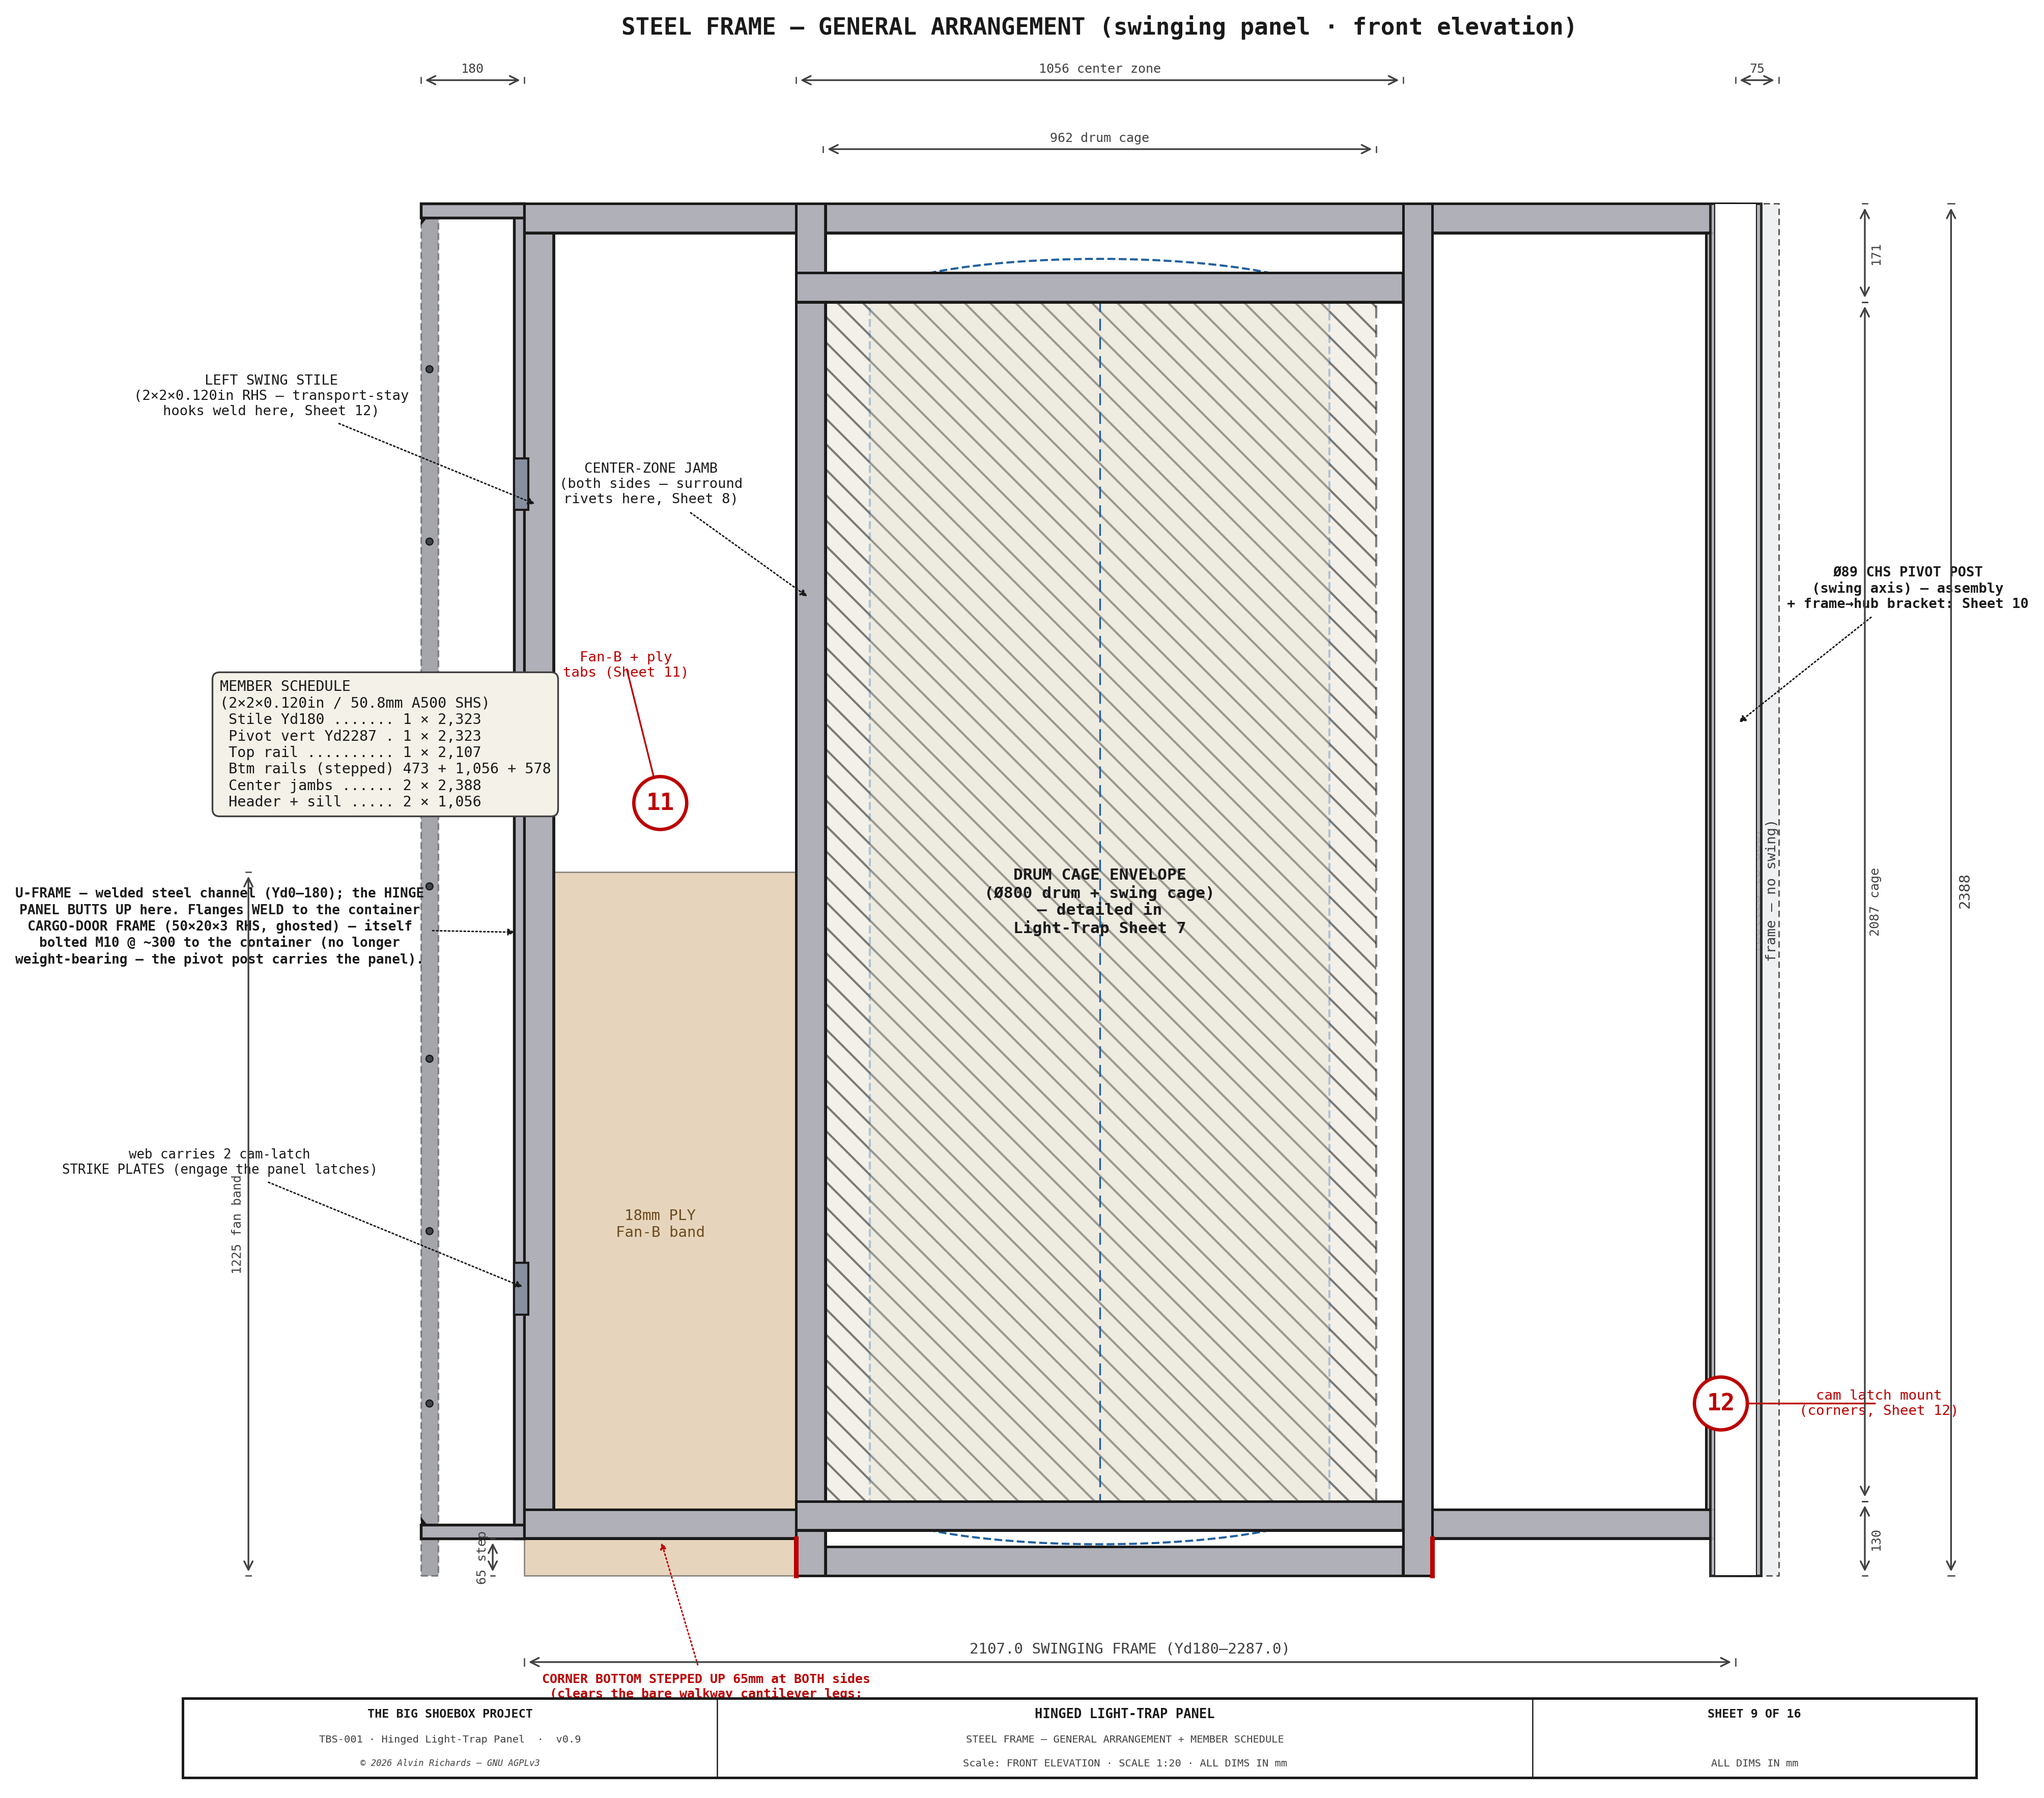
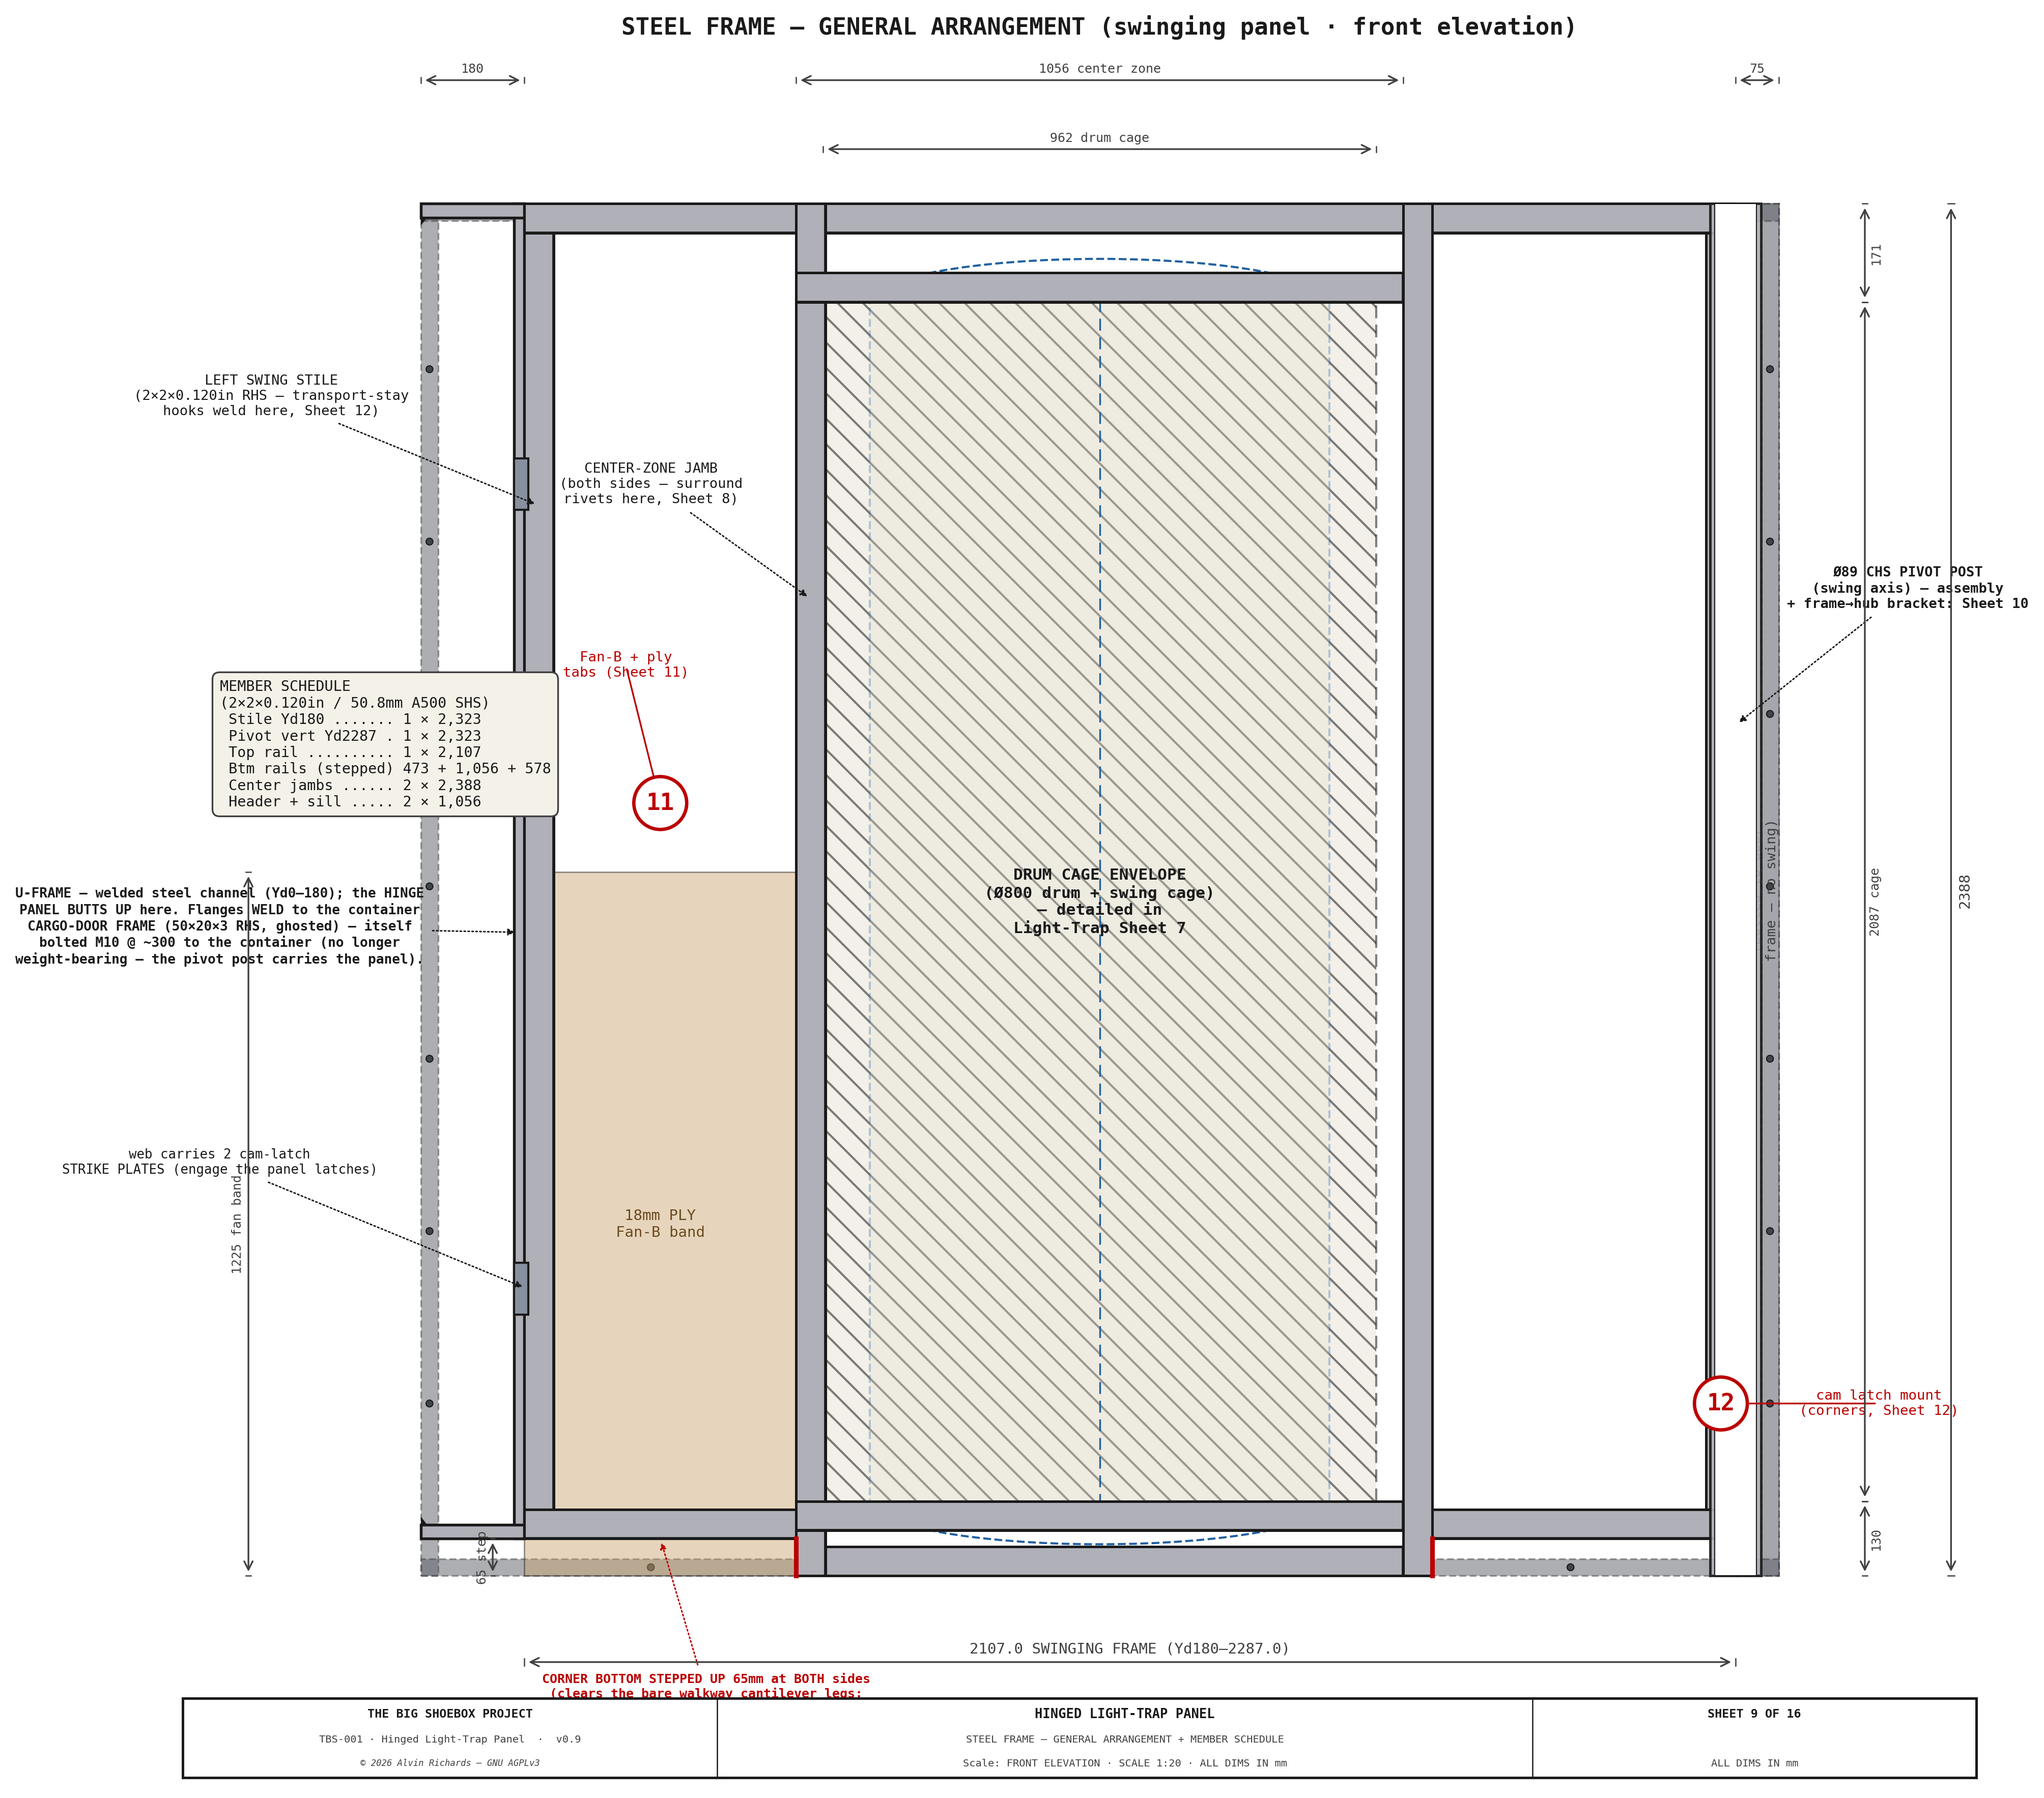
Sheet 9: draw the full container cargo-door frame outline (was left stile only)
Add the threshold + top rail + right stile (ghosted, 50x20x3) around the whole opening, with
M10 anchor heads along all four members. The U-frame still welds to the left stile.

Changed region(s): [[0.7159, 0.1245, 0.8715, 0.9027], [0.2179, 0.8404, 0.3735, 0.9027]]

diff --git a/src/generators/generate_hingepanel_diagram.py b/src/generators/generate_hingepanel_diagram.py
@@ -2070,11 +2070,18 @@ def sheet9():
     #    (Yd0, container-wall side) is WELDED to the container door frame. Secures the HDPE + plywood skins. ──
     uf_z0, uf_z1 = STEP, PH
     WEB, FL = 18, 24
-    # container CARGO-DOOR FRAME left stile (50×20×3 RHS) — the STRUCTURE the U-frame welds to. Shown ghosted
-    # BEHIND the U-frame (it sits just exterior of the panel plane); bolted M10 @ ~300 to the container.
-    ax.add_patch(Rectangle((0, 0), 30, PH, fc="#5A5E66", ec=C_DIM, lw=0.8, ls=(0, (4, 2)), alpha=0.55, zorder=4))
-    for az in range(300, int(PH) - 200, 300):                                                                # M10 anchor heads (to container)
-        ax.add_patch(Circle((15, az), 6, fc="#40444A", ec=C_OUT, lw=0.6, zorder=4.5))
+    # container CARGO-DOOR FRAME (50×20×3 RHS) — FULL perimeter, ghosted BEHIND everything (it sits just
+    # exterior of the panel plane). Bolted M10 @ ~300 to the container; the U-frame welds to its LEFT stile.
+    DFW = 30                                                                                   # drawn width (schematic; actual 50mm face)
+    for fx, fy, fw, fh in [(0, 0, DFW, PH), (PW - DFW, 0, DFW, PH),                             # left + right stiles
+                           (0, 0, PW, DFW), (0, PH - DFW, PW, DFW)]:                            # threshold + top rail
+        ax.add_patch(Rectangle((fx, fy), fw, fh, fc="#5A5E66", ec=C_DIM, lw=0.8, ls=(0, (4, 2)), alpha=0.5, zorder=1.5))
+    for az in range(300, int(PH) - 200, 300):                                                  # M10 anchor heads — the two stiles
+        ax.add_patch(Circle((DFW / 2, az), 6, fc="#40444A", ec=C_OUT, lw=0.5, zorder=1.7))
+        ax.add_patch(Circle((PW - DFW / 2, az), 6, fc="#40444A", ec=C_OUT, lw=0.5, zorder=1.7))
+    for ay in range(400, int(PW) - 300, 400):                                                  # M10 anchor heads — threshold + top
+        ax.add_patch(Circle((ay, DFW / 2), 6, fc="#40444A", ec=C_OUT, lw=0.5, zorder=1.7))
+        ax.add_patch(Circle((ay, PH - DFW / 2), 6, fc="#40444A", ec=C_OUT, lw=0.5, zorder=1.7))
     ax.add_patch(Rectangle((yL - WEB, uf_z0), WEB, uf_z1 - uf_z0, fc=C_STEEL, ec=C_OUT, lw=1.3, zorder=5))   # web (right/swing-facing)
     ax.add_patch(Rectangle((0, uf_z1 - FL), yL, FL, fc=C_STEEL, ec=C_OUT, lw=1.3, zorder=5))                 # top flange → door frame
     ax.add_patch(Rectangle((0, uf_z0), yL, FL, fc=C_STEEL, ec=C_OUT, lw=1.3, zorder=5))                      # bottom flange → door frame
